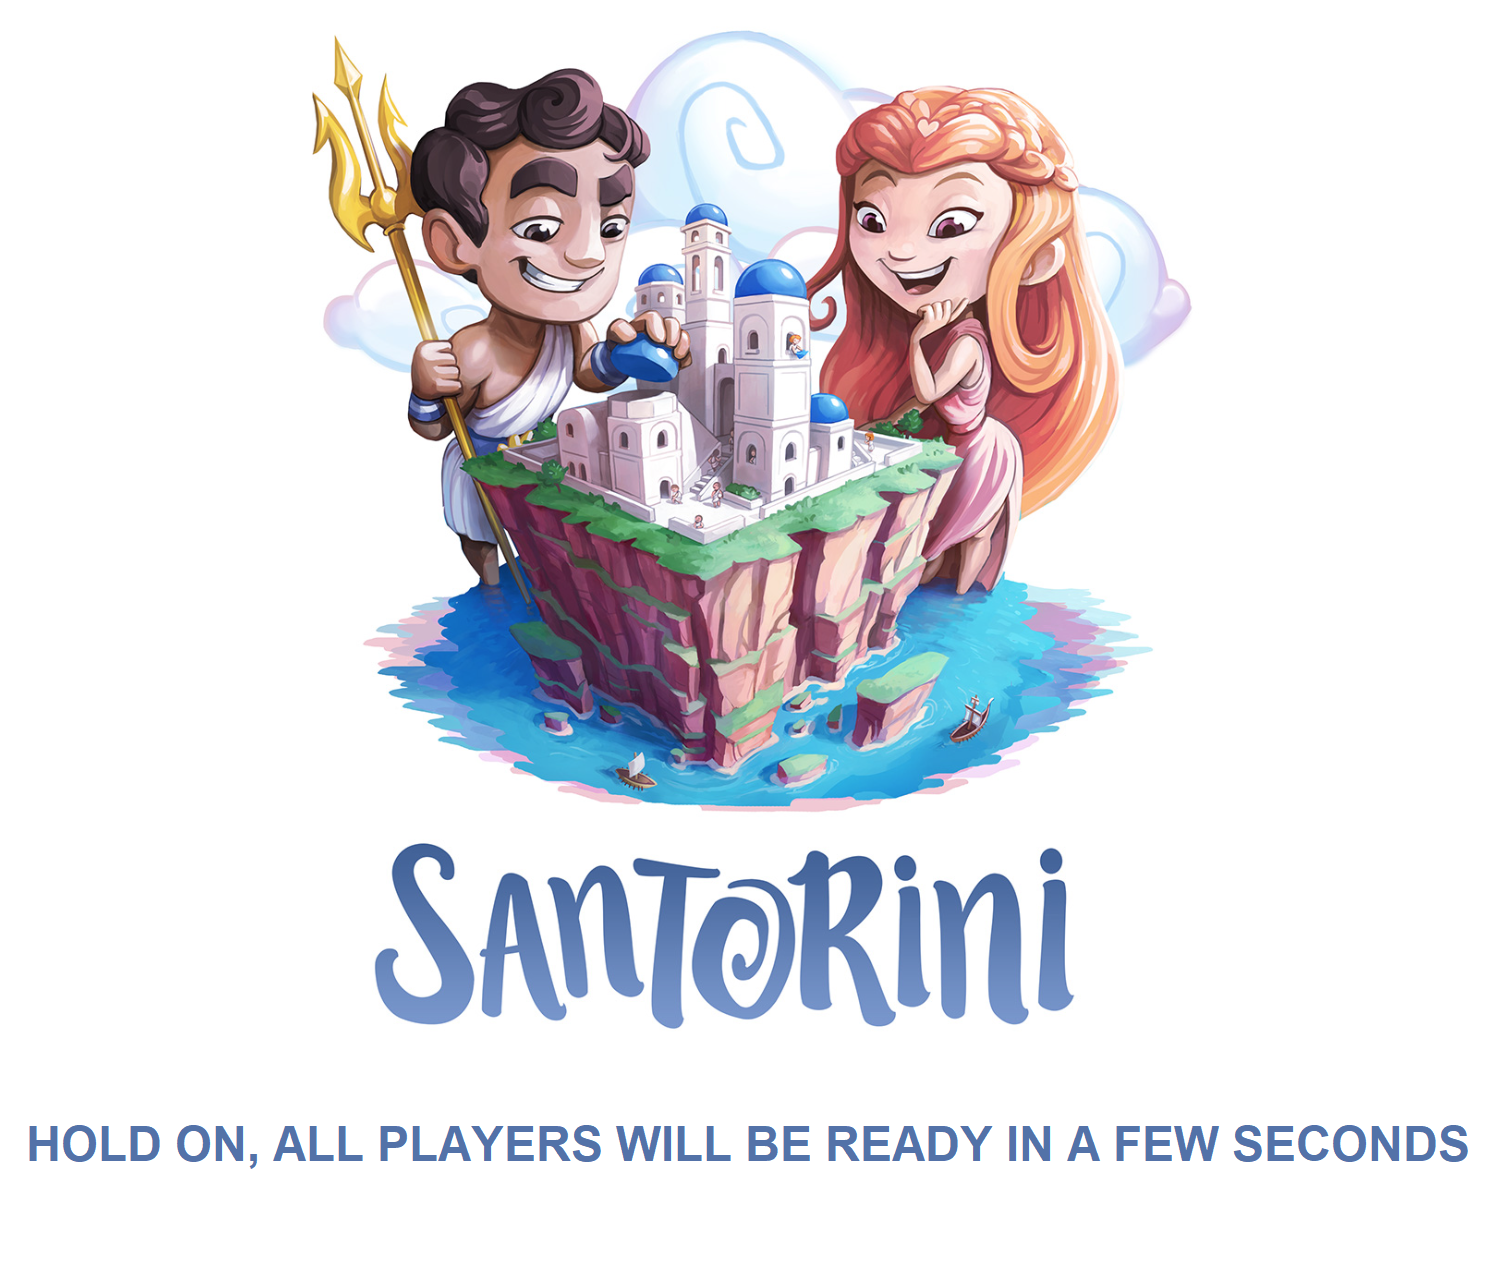
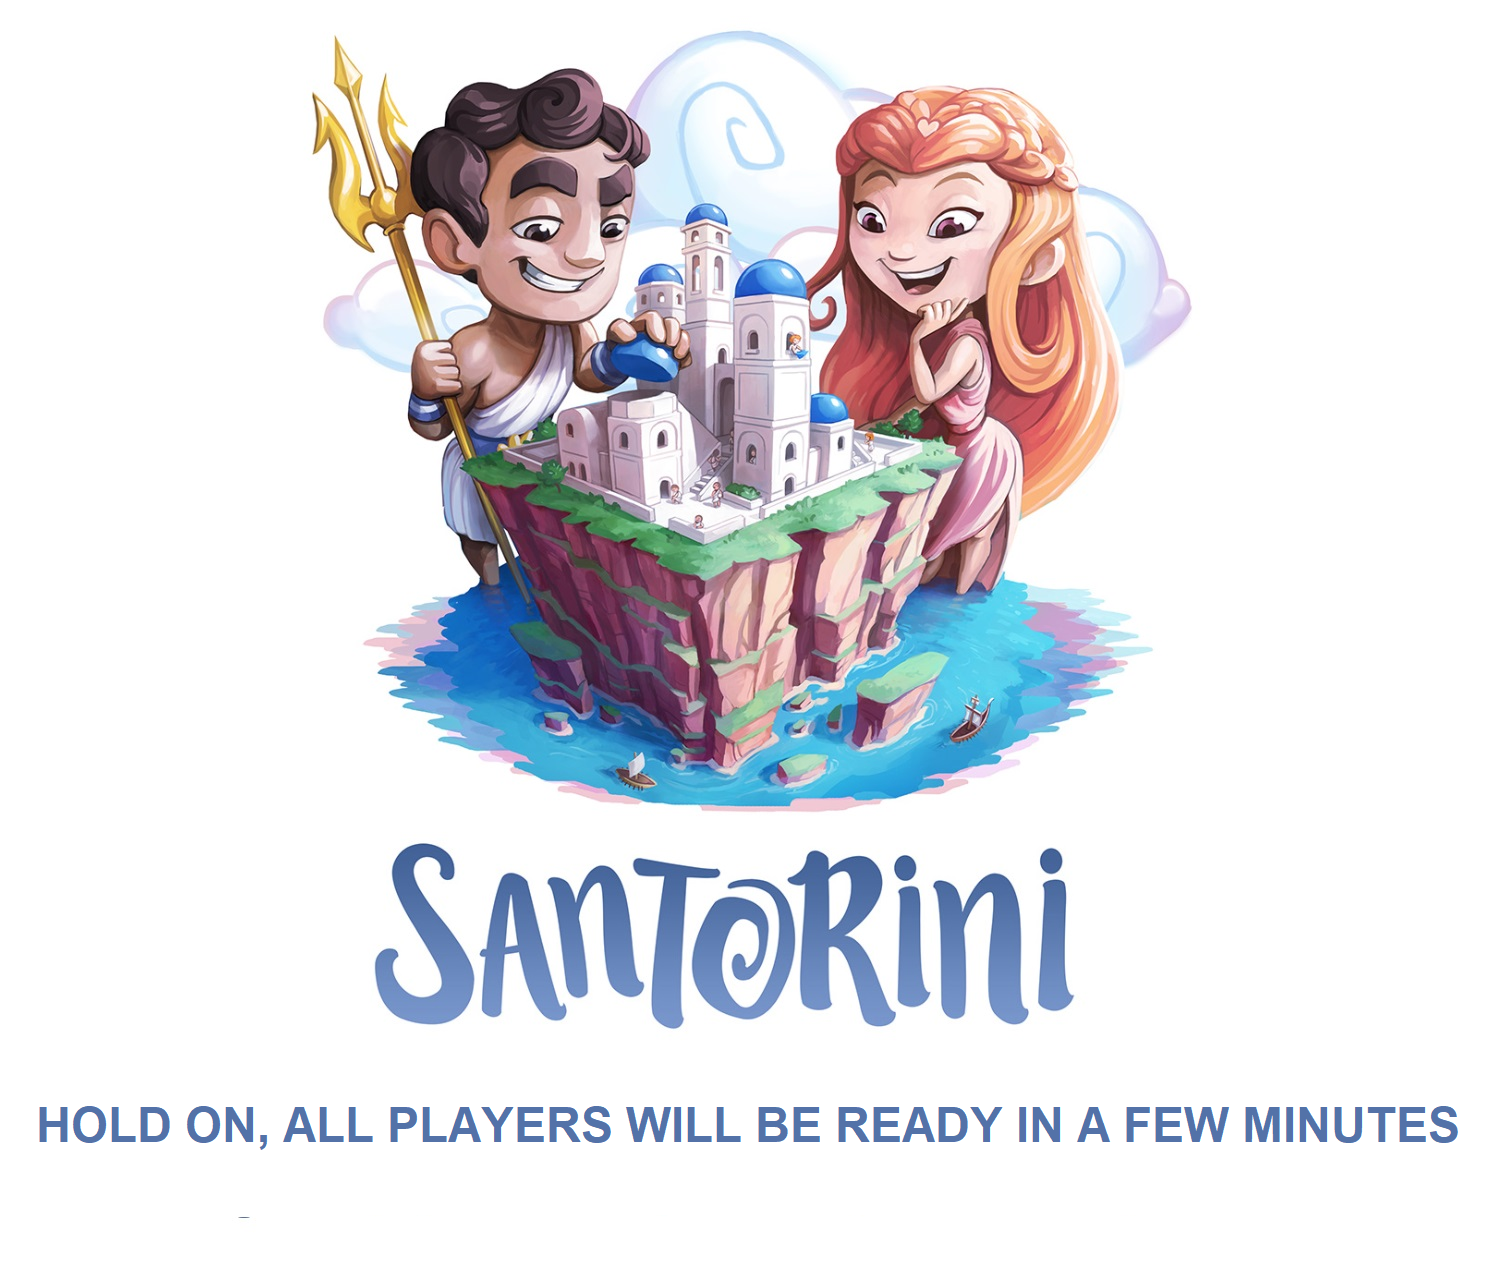
Added two new waiting panels (waitForDivinites and waitForNumPlayers) Renamed CardChoicePanel in DivinityChoicePanel Added divinity images (to be used in DivinityChoicePanel) Enabled termination of clients when game window is closed Inserted some JavaDoc

Changed region(s): [[0.0, 0.8578, 1.0, 0.9191]]

diff --git a/src/main/java/it/polimi/ingsw/PSP38/client/GameModeGUI.java b/src/main/java/it/polimi/ingsw/PSP38/client/GameModeGUI.java
@@ -8,7 +8,6 @@ import it.polimi.ingsw.PSP38.common.Message;
 import javax.swing.*;
 import java.awt.*;
 import java.lang.reflect.InvocationTargetException;
-import java.util.Scanner;
 
 
 public class GameModeGUI implements GameMode {
@@ -20,7 +19,6 @@ public class GameModeGUI implements GameMode {
     private String customStringRead;
     private SantoriniWindow santoriniWindow;
     private String availableDivinities;
-    private Scanner divinitiesScanner;
     private JPanel cardButtons;
 
 
@@ -71,7 +69,8 @@ public class GameModeGUI implements GameMode {
 
     public void waitForNumPlayer() {
         System.out.println("Please wait for the first player to select the number of players.");
-
+        CardLayout cl = (CardLayout) (getSantoriniWindow().getCardHolder().getLayout());
+        cl.show(getSantoriniWindow().getCardHolder(), "waitForNumPlayers");
     }
 
     public void gameFull() {
@@ -108,6 +107,8 @@ public class GameModeGUI implements GameMode {
 
     public void waitForDivinities() {
         System.out.println("Please wait for " + customStringRead + " to choose the divinity cards that will be used in this game");
+        CardLayout cl = (CardLayout) (getSantoriniWindow().getCardHolder().getLayout());
+        cl.show(getSantoriniWindow().getCardHolder(), "waitForDivinities");
     }
 
     public void notYourTurn() {
@@ -166,19 +167,19 @@ public class GameModeGUI implements GameMode {
     private void displayAvailableDivinities() {
         availableDivinities=customStringRead;
         if(cardButtons!=null){
-            BorderLayout borderLayout = (BorderLayout)santoriniWindow.getCardChoicePanel().getMainCardPanel().getLayout();
-            santoriniWindow.getCardChoicePanel().getMainCardPanel().remove(borderLayout.getLayoutComponent(BorderLayout.CENTER));
+            BorderLayout borderLayout = (BorderLayout)santoriniWindow.getDivinityChoicePanel().getMainCardPanel().getLayout();
+            santoriniWindow.getDivinityChoicePanel().getMainCardPanel().remove(borderLayout.getLayoutComponent(BorderLayout.CENTER));
         }
-        cardButtons = santoriniWindow.getCardChoicePanel().createCardButtonsPanel();
-        santoriniWindow.getCardChoicePanel().getMainCardPanel().add(cardButtons, BorderLayout.CENTER);
+        cardButtons = santoriniWindow.getDivinityChoicePanel().createCardButtonsPanel();
+        santoriniWindow.getDivinityChoicePanel().getMainCardPanel().add(cardButtons, BorderLayout.CENTER);
     }
 
     private void displayDivinityMessage() {
         /*divinitiesScanner = new Scanner(customStringRead);
-        santoriniWindow.getCardHolder().add(santoriniWindow.getCardChoicePanel().createMainCardPanel(this), "cardChoice");*/
+        santoriniWindow.getCardHolder().add(santoriniWindow.getDivinityChoicePanel().createMainCardPanel(this), "cardChoice");*/
         CardLayout cl = (CardLayout) (getSantoriniWindow().getCardHolder().getLayout());
         cl.show(getSantoriniWindow().getCardHolder(), "cardChoice");
-        getSantoriniWindow().getMainSetupFrame().setSize(1300,400);
+        getSantoriniWindow().getMainSetupFrame().setSize(1500,400);
     }
 
     private void unableToFinishTurn() {
@@ -392,10 +393,6 @@ public class GameModeGUI implements GameMode {
 
     public String getAvailableDivinities() {
         return availableDivinities;
-    }
-
-    public Scanner getDivinitiesScanner() {
-        return divinitiesScanner;
     }
 
     //in teoria non dovrebbero mai essere chiamati con GUI

diff --git a/src/main/java/it/polimi/ingsw/PSP38/client/GUIComponents/SantoriniWindow.java b/src/main/java/it/polimi/ingsw/PSP38/client/GUIComponents/SantoriniWindow.java
@@ -1,6 +1,5 @@
 package it.polimi.ingsw.PSP38.client.GUIComponents;
 
-import it.polimi.ingsw.PSP38.client.Client;
 import it.polimi.ingsw.PSP38.client.GameModeGUI;
 
 import javax.swing.*;
@@ -11,16 +10,20 @@ import java.util.Observable;
  * Class that contains methods used to generate the graphic interface window of Santorini
  * @author Davide Mantegazza (10568661)
  */
-public class SantoriniWindow extends Observable /*implements ActionListener*/ {
+public class SantoriniWindow extends Observable {
     public static final int WIDTH = 550;
     public static final int HEIGHT = 650;
     public static final String waitForPlayersImage = "santorini-hold-on.png";
+    public static final String waitForDivinitiesImage = "santorini-wait-for-divinities.png";
+    public static final String waitForNumPlayersImage = "santorini-wait-for-num-players.png";
     private JFrame mainSetupFrame = new JFrame();
     private JPanel cardHolder;
     private static GameModeGUI gameModeGUI;
     private StartPanel startPanel;
-    private CardChoicePanel cardChoicePanel;
-    private WaitingPanel waitingPanel;
+    private DivinityChoicePanel divinityChoicePanel;
+    private WaitingPanel waitForPlayersPanel;
+    private WaitingPanel waitForNumPlayersPanel;
+    private WaitingPanel waitForDivinitiesPanel;
 
     /**
      * This method is used to generate the game window of Santorini
@@ -32,6 +35,7 @@ public class SantoriniWindow extends Observable /*implements ActionListener*/ {
         mainSetupFrame.setSize(WIDTH, HEIGHT);
         mainSetupFrame.setTitle("Santorini");
         mainSetupFrame.add(createCardHolder());
+        mainSetupFrame.setDefaultCloseOperation(WindowConstants.EXIT_ON_CLOSE);
         mainSetupFrame.setVisible(true);
         return mainSetupFrame;
     }
@@ -45,10 +49,14 @@ public class SantoriniWindow extends Observable /*implements ActionListener*/ {
         cardHolder.setLayout(new CardLayout());
         startPanel=new StartPanel();
         cardHolder.add(startPanel.createStartPanel(gameModeGUI), "setup");
-        waitingPanel = new WaitingPanel();
-        cardHolder.add(waitingPanel.createWaitingPanel(waitForPlayersImage), "waitForPlayers");
-        cardChoicePanel=new CardChoicePanel();
-        cardHolder.add(cardChoicePanel.createMainCardPanel(gameModeGUI), "cardChoice");
+        waitForPlayersPanel = new WaitingPanel(waitForPlayersImage);
+        cardHolder.add(waitForPlayersPanel.createWaitingPanel(), "waitForPlayers");
+        waitForNumPlayersPanel = new WaitingPanel(waitForNumPlayersImage);
+        cardHolder.add(waitForNumPlayersPanel.createWaitingPanel(), "waitForNumPlayers");
+        divinityChoicePanel =new DivinityChoicePanel();
+        cardHolder.add(divinityChoicePanel.createMainCardPanel(gameModeGUI), "cardChoice");
+        waitForDivinitiesPanel = new WaitingPanel(waitForDivinitiesImage);
+        cardHolder.add(waitForDivinitiesPanel.createWaitingPanel(), "waitForDivinities");
         return cardHolder;
     }
 
@@ -64,7 +72,7 @@ public class SantoriniWindow extends Observable /*implements ActionListener*/ {
         return startPanel;
     }
 
-    public CardChoicePanel getCardChoicePanel() {
-        return cardChoicePanel;
+    public DivinityChoicePanel getDivinityChoicePanel() {
+        return divinityChoicePanel;
     }
 }

diff --git a/src/main/java/it/polimi/ingsw/PSP38/client/GUIComponents/WaitingPanel.java b/src/main/java/it/polimi/ingsw/PSP38/client/GUIComponents/WaitingPanel.java
@@ -11,7 +11,8 @@ import java.net.URISyntaxException;
 import java.util.Objects;
 
 /**
- * This class contains the methods needed to generate waiting panels for various situation
+ * This class contains the methods needed to generate a panel which signals the user that the client is waiting for
+ * some feedback from the server or another client
  * @author Davide Mantegazza (10568661), Matteo Mita
  */
 public class WaitingPanel {
@@ -20,20 +21,39 @@ public class WaitingPanel {
     private JPanel hourglassPanel;
     private JLabel waitLabel;
     private JLabel hourglassLabel;
+    private String imageURL;
+    private Color panelColor = new Color(0,0,0,0);
 
+    /**
+     * Constructor of <code>WaitingPanel</code> class
+     * @param imageURL is the path with the name of the image that will be shown on the panel
+     */
+    public WaitingPanel(String imageURL) {
+        this.imageURL = imageURL;
+    }
 
-    public JPanel createWaitingPanel(String imageURL){
+    /**
+     * This method generates the waiting panel with the desired image
+     * @return the waiting panel
+     */
+    public JPanel createWaitingPanel(){
         waitingPanel = new JPanel();
         waitingPanel.setLayout(new BorderLayout());
         waitingPanel.setBackground(Color.WHITE);
-        waitingPanel.add(createWaitImagePanel(imageURL), BorderLayout.CENTER);
+        waitingPanel.add(createWaitImagePanel(), BorderLayout.CENTER);
         waitingPanel.add(createHourglassPanel(), BorderLayout.SOUTH);
         return waitingPanel;
     }
-    public JPanel createWaitImagePanel(String imageURL) {
+
+    /**
+     * This method is used to create the panel containing the specified image
+     * @return the panel with the image specified with <code>imageURL</code>
+     */
+    public JPanel createWaitImagePanel() {
         Image waitImage=null;
         Image waitImageScaled;
         imagePanel= new JPanel();
+        imagePanel.setBackground(panelColor);
         File dir = null;
         try {
             dir = new File(Objects.requireNonNull(ImageCollection.class.getClassLoader()
@@ -57,6 +77,7 @@ public class WaitingPanel {
         Image hourglass = null;
         Image hourglassScaled;
         hourglassPanel= new JPanel();
+        hourglassPanel.setBackground(panelColor);
         File dir = null;
         try {
             dir = new File(Objects.requireNonNull(ImageCollection.class.getClassLoader()

diff --git a/src/main/java/it/polimi/ingsw/PSP38/client/GUIComponents/DivinityChoicePanel.java b/src/main/java/it/polimi/ingsw/PSP38/client/GUIComponents/DivinityChoicePanel.java
@@ -8,7 +8,7 @@ import java.awt.event.ActionEvent;
 import java.awt.event.ActionListener;
 import java.util.Scanner;
 
-public class CardChoicePanel implements ActionListener {
+public class DivinityChoicePanel implements ActionListener {
     private JPanel mainCardPanel;
     private JPanel titlePanel;
     private JPanel okButtonPanel;
@@ -16,6 +16,7 @@ public class CardChoicePanel implements ActionListener {
     private JLabel title;
     private GameModeGUI gameModeGUI;
     private Scanner divinitiesScanner;
+    private JRadioButton divinityRadioButton;
     private ButtonGroup divintiyRadioButtonGroup = new ButtonGroup();
     private JButton okButton;
 
@@ -23,7 +24,6 @@ public class CardChoicePanel implements ActionListener {
         gameModeGUI=gmg;
         mainCardPanel = new JPanel(new BorderLayout());
         mainCardPanel.add(createTitlePanel(), BorderLayout.NORTH);
-        //mainCardPanel.add(createCardButtonsPanel(), BorderLayout.CENTER);
         mainCardPanel.add(createOkButtonPanel(), BorderLayout.SOUTH);
         return mainCardPanel;
     }
@@ -57,10 +57,10 @@ public class CardChoicePanel implements ActionListener {
     public void createDivinityButton(String divinityName){
         JPanel divinityButtonPanel = new JPanel(new BorderLayout());
         JPanel divinityCheckboxPanel = new JPanel(new FlowLayout());
-        JRadioButton divinityCheckbox = new JRadioButton(divinityName);
-        divinityCheckbox.setActionCommand(divinityName);
-        divintiyRadioButtonGroup.add(divinityCheckbox);
-        divinityCheckboxPanel.add(divinityCheckbox);
+        divinityRadioButton = new JRadioButton(divinityName);
+        divinityRadioButton.setActionCommand(divinityName);
+        divintiyRadioButtonGroup.add(divinityRadioButton);
+        divinityCheckboxPanel.add(divinityRadioButton);
         divinityButtonPanel.add(divinityCheckboxPanel, BorderLayout.SOUTH);
         //inserire immagine
         cardButtonsPanel.add(divinityButtonPanel);

diff --git a/src/main/java/it/polimi/ingsw/PSP38/client/GUIComponents/GameWindowOLD.java b/src/main/java/it/polimi/ingsw/PSP38/client/GUIComponents/GameWindowOLD.java
@@ -1,4 +1,4 @@
-package it.polimi.ingsw.PSP38.client.GUIComponents;
+/*package it.polimi.ingsw.PSP38.client.GUIComponents;
 
 import it.polimi.ingsw.PSP38.client.Client;
 
@@ -47,4 +47,4 @@ public class GameWindowOLD implements ActionListener {
     public JPanel getPanelHolder() {
         return panelHolder;
     }
-}
+}*/

diff --git a/src/main/java/it/polimi/ingsw/PSP38/client/GUIComponents/StartPanel.java b/src/main/java/it/polimi/ingsw/PSP38/client/GUIComponents/StartPanel.java
@@ -99,7 +99,11 @@ public class StartPanel implements ActionListener {
         return buttonPanel;
     }
 
-
+    /**
+     * Invoked when an action occurs.
+     *
+     * @param e the event to be processed
+     */
     @Override
     public void actionPerformed(ActionEvent e) {
         if(e.getSource()==connectButton){

diff --git a/src/main/java/it/polimi/ingsw/PSP38/client/GUIComponents/FirstCardSelectionWindowOLD.java b/src/main/java/it/polimi/ingsw/PSP38/client/GUIComponents/FirstCardSelectionWindowOLD.java
@@ -1,4 +1,4 @@
-package it.polimi.ingsw.PSP38.client.GUIComponents;
+/*package it.polimi.ingsw.PSP38.client.GUIComponents;
 
 import javax.swing.*;
 import javax.swing.border.Border;
@@ -23,4 +23,4 @@ public class FirstCardSelectionWindow extends JFrame {
 
         add(cardListPanel, BorderLayout.WEST);
     }
-}
+}*/

diff --git a/src/main/java/it/polimi/ingsw/PSP38/client/GUIComponents/SetNumOfPlayersComponentOLD.java b/src/main/java/it/polimi/ingsw/PSP38/client/GUIComponents/SetNumOfPlayersComponentOLD.java
@@ -1,4 +1,4 @@
-package it.polimi.ingsw.PSP38.client.GUIComponents;
+/*package it.polimi.ingsw.PSP38.client.GUIComponents;
 
 import it.polimi.ingsw.PSP38.client.GameModeGUI;
 
@@ -49,4 +49,4 @@ public class SetNumOfPlayersComponent extends JComponent implements ActionListen
         }
 
     }
-}
+}*/

diff --git a/src/main/java/it/polimi/ingsw/PSP38/client/GUIComponents/SetupPanelsOLD.java b/src/main/java/it/polimi/ingsw/PSP38/client/GUIComponents/SetupPanelsOLD.java
@@ -1,4 +1,4 @@
-package it.polimi.ingsw.PSP38.client.GUIComponents;
+/*package it.polimi.ingsw.PSP38.client.GUIComponents;
 
 import it.polimi.ingsw.PSP38.client.Client;
 
@@ -82,4 +82,4 @@ public class SetupPanelsOLD {
     public static JTextField getAge() {
         return age;
     }
-}
+}*/
